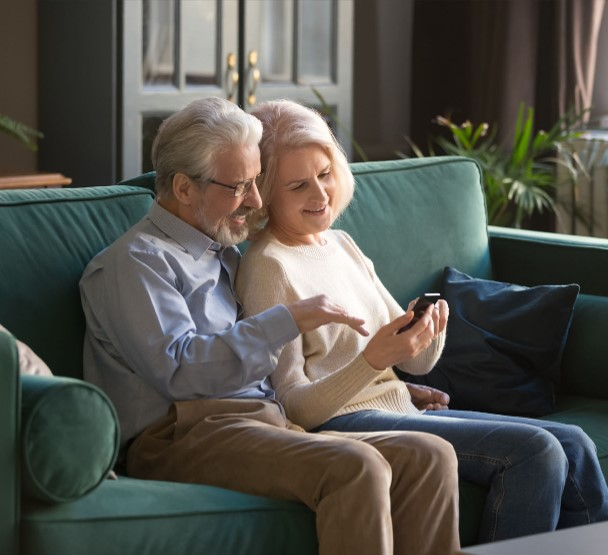
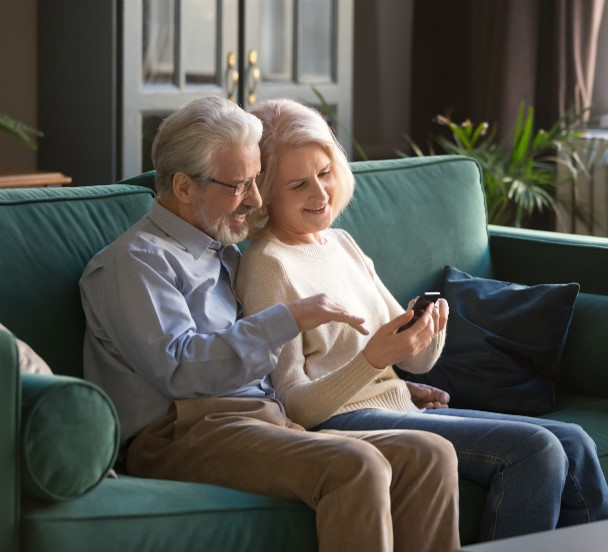
Added random selection of multiple images
Added random selection of multiple images

diff --git a/index.html b/index.html
@@ -1,5 +1,5 @@
 <!DOCTYPE html>
-<!-- All content ownned by Silver Savvy, LLC. Images used subject to requirements at 
+<!-- All content owned by Silver Savvy, LLC. Images used subject to requirements at 
      https://designer.microsoft.com/termsOfUse.pdf. -->
 
 <html lang="en">
@@ -20,6 +20,7 @@
 </head>
 
 <body>
+
 <div class="header">
   <div class="header-row">
     <h1>SILVER SAVVY, LLC</h1>
@@ -27,7 +28,16 @@
   </div>
 </div>
 
-<img src="Images\Couple1.jpg" alt="Main Image" class="main-image">
+<img ID="randomImage" src="" alt="Main Image" class="main-image">
+
+<script>
+var images = ["Images/Couple1.jpg", "Images/Couple2.jpg", "Images/Couple3.jpg", "Images/Couple4.jpg"];
+function pickRandomImage() {
+  var index = Math.floor(Math.random() * images.length);
+  document.getElementById("randomImage").src = images[index];
+}
+window.onload = pickRandomImage;
+</script>
 
 <div class="banner">
   <p>Operations in Stealth Mode</p>
